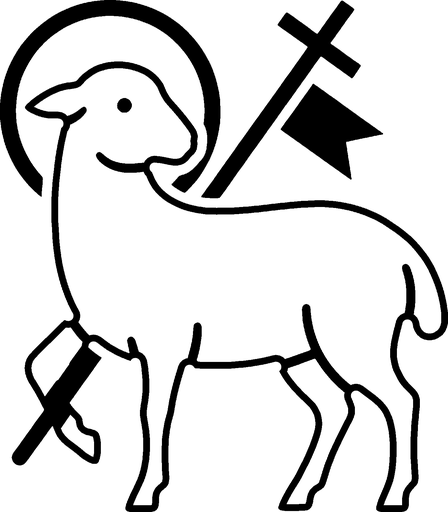
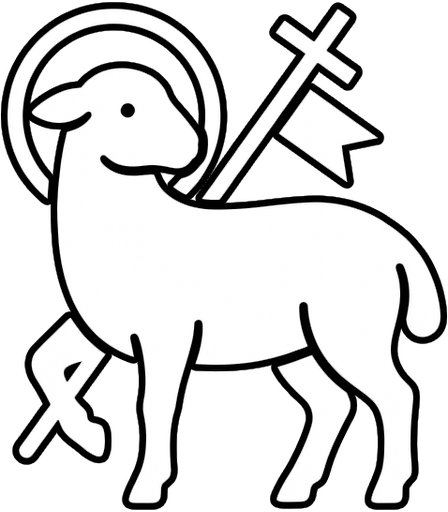
feat(marca): aplica o novo símbolo simplificado (AGNUS-209)
Cabeçalho da loja, menu do painel, favicon e ícones passam a sair do
desenho novo em docs/marca/agnus-logo-simplificado.png. O desenho
completo do rodapé, do login e da 404 não muda.

Changed region(s): [[0.0, 0.0, 1.0, 1.0], [0.25, 0.1875, 0.3125, 0.25], [0.1875, 0.125, 0.25, 0.1562]]

diff --git a/DESIGN.md b/DESIGN.md
@@ -33,7 +33,7 @@ Cores dos tempos: Tempo Comum `#2f6a46`, Advento `#5b3a86`, Quaresma `#4e2f6e`, 
 
 - **Regra de tamanho**: o desenho detalhado é o normal; a versão simplificada só entra onde o espaço é muito pequeno.
 - Detalhado: `logo-completo.png` (com a escrita, no rodapé e no login) e `emblema.png` (sem a escrita, na página 404).
-- Simplificado: `simbolo.png` com `escrita.png` no cabeçalho; `simbolo-claro.png` no painel, por ter fundo escuro; favicon e ícones `logo192`/`logo512` com fundo `--ink`.
+- Simplificado: desenhado em `docs/marca/agnus-logo-simplificado.png` (AGNUS-209). Dele saem `simbolo.png` (corpo branco, contorno preto) com `escrita.png` no cabeçalho; `simbolo-claro.png` no painel, com fundo escuro (silhueta branca, traços vazados); favicon e ícones `logo192`/`logo512` com fundo `--ink`, na loja e no painel.
 - O nome AGNUS sempre acompanha o símbolo no cabeçalho, para a marca ficar conhecida.
 - **O Cordeiro é sempre branco.** Nunca usar silhueta preta nem inverter o símbolo por CSS.
 
